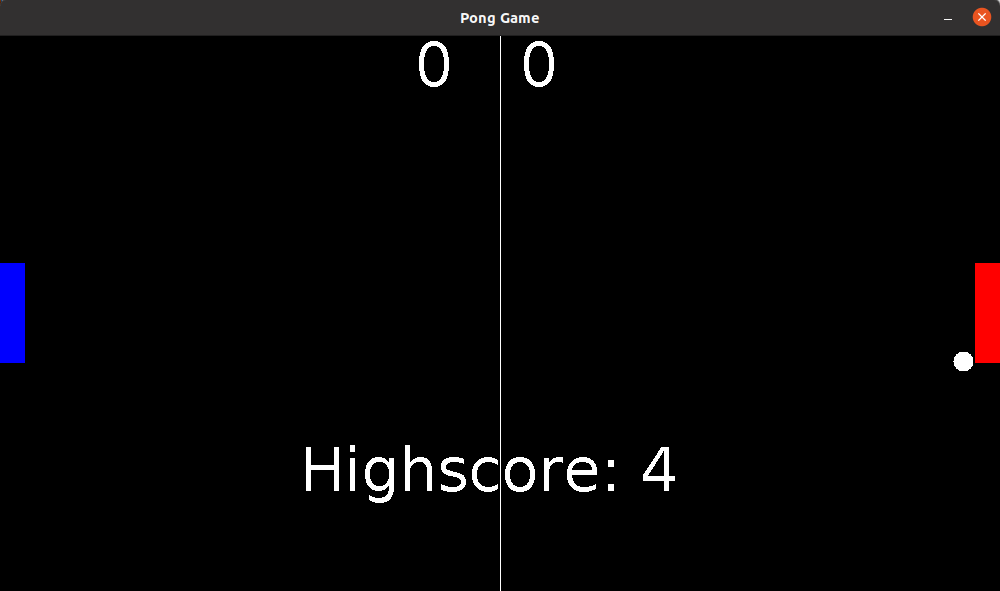
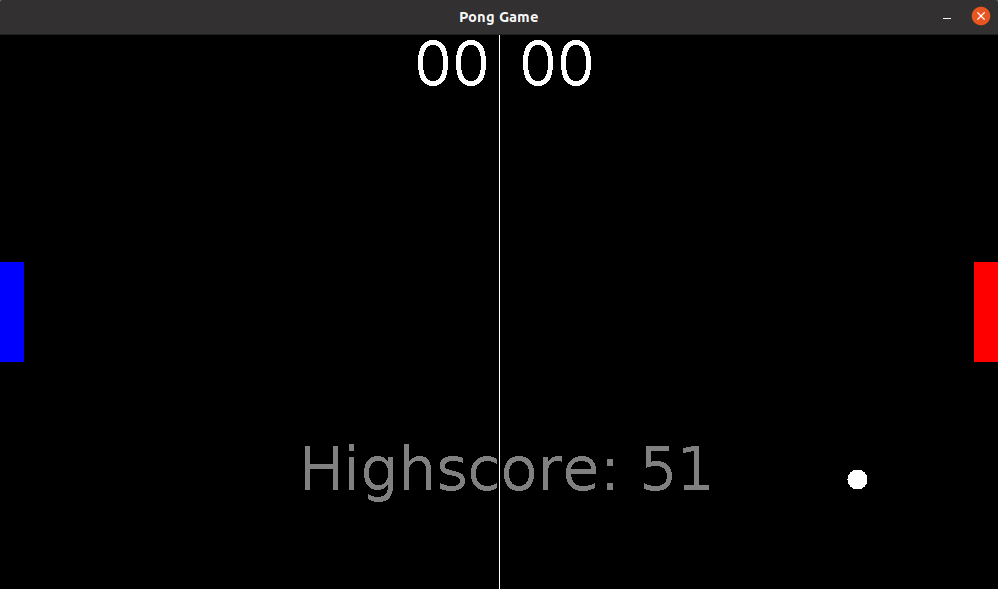
refactor - printScore unnecessary, used String.format instead

diff --git a/src/main/java/code/bro/Score.java b/src/main/java/code/bro/Score.java
@@ -32,27 +32,21 @@ public class Score extends Rectangle{
                 GAME_HEIGHT
         );
         g.drawString(
-                printScore(player1),
+                String.format("%02d", player1),
                 CENTER_WIDTH + SCORE_MARGIN_LEFT,
                 SCORE_HEIGHT
         );
         g.drawString(
-                printScore(player2),
+                String.format("%02d", player2),
                 CENTER_WIDTH + SCORE_MARGIN_RIGHT,
                 SCORE_HEIGHT
         );
+        g.setColor(Color.gray);
         g.drawString(
-                "Highscore: " + printScore(HIGHSCORE),
+                "Highscore: " + String.format("%02d", HIGHSCORE),
                 CENTER_WIDTH + HIGHSCORE_MARGIN,
                 GAME_HEIGHT - 100
         );
-    }
-
-    private String printScore(int score) {
-        if (score < 10) {
-            return String.valueOf(score);
-        }
-        return String.valueOf(score / 10) + score % 10;
     }
 
 }
